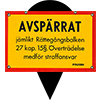
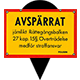
add crime scene picture and pin

diff --git a/src/geomap.js b/src/geomap.js
@@ -22,7 +22,7 @@ let clues = document.getElementById('modal'),
         clue_lat: 59.313627, clue_lng: 18.110746,
         icon: '../media/img/mordplats_pin.png',
         header: 'Mordplats',
-        imgSrc: '../media/img/karlsson.png',
+        imgSrc: '../media/img/brottsplats.jpg',
         info: 'Ett mord har skett i Nacka',
         clickable: false, open: false
       }
